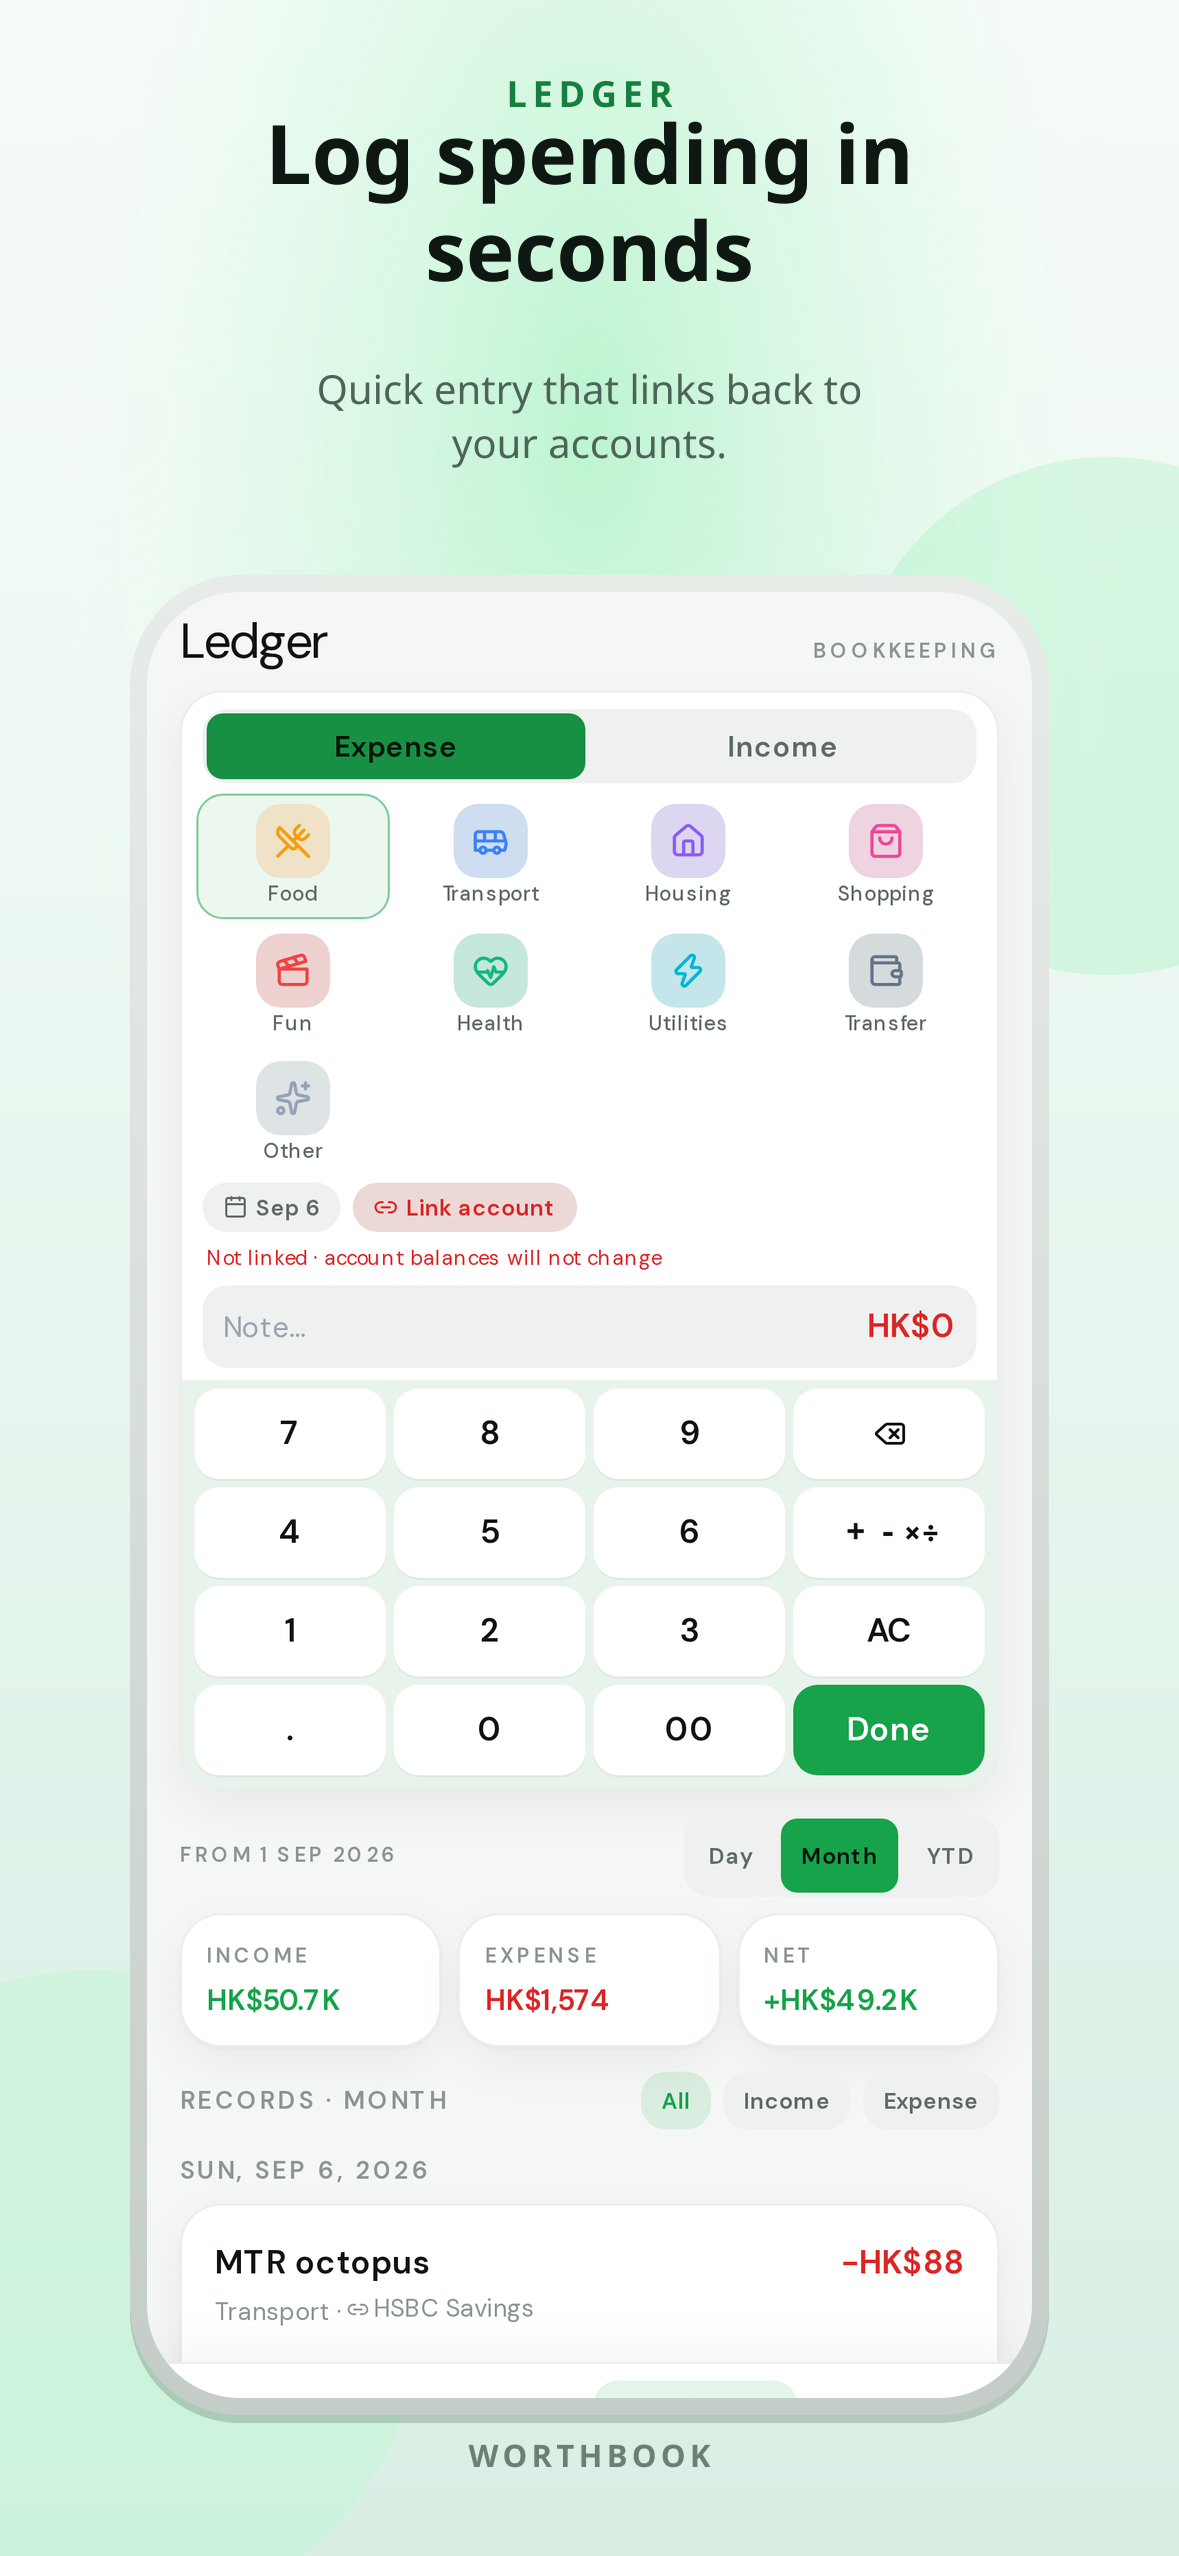
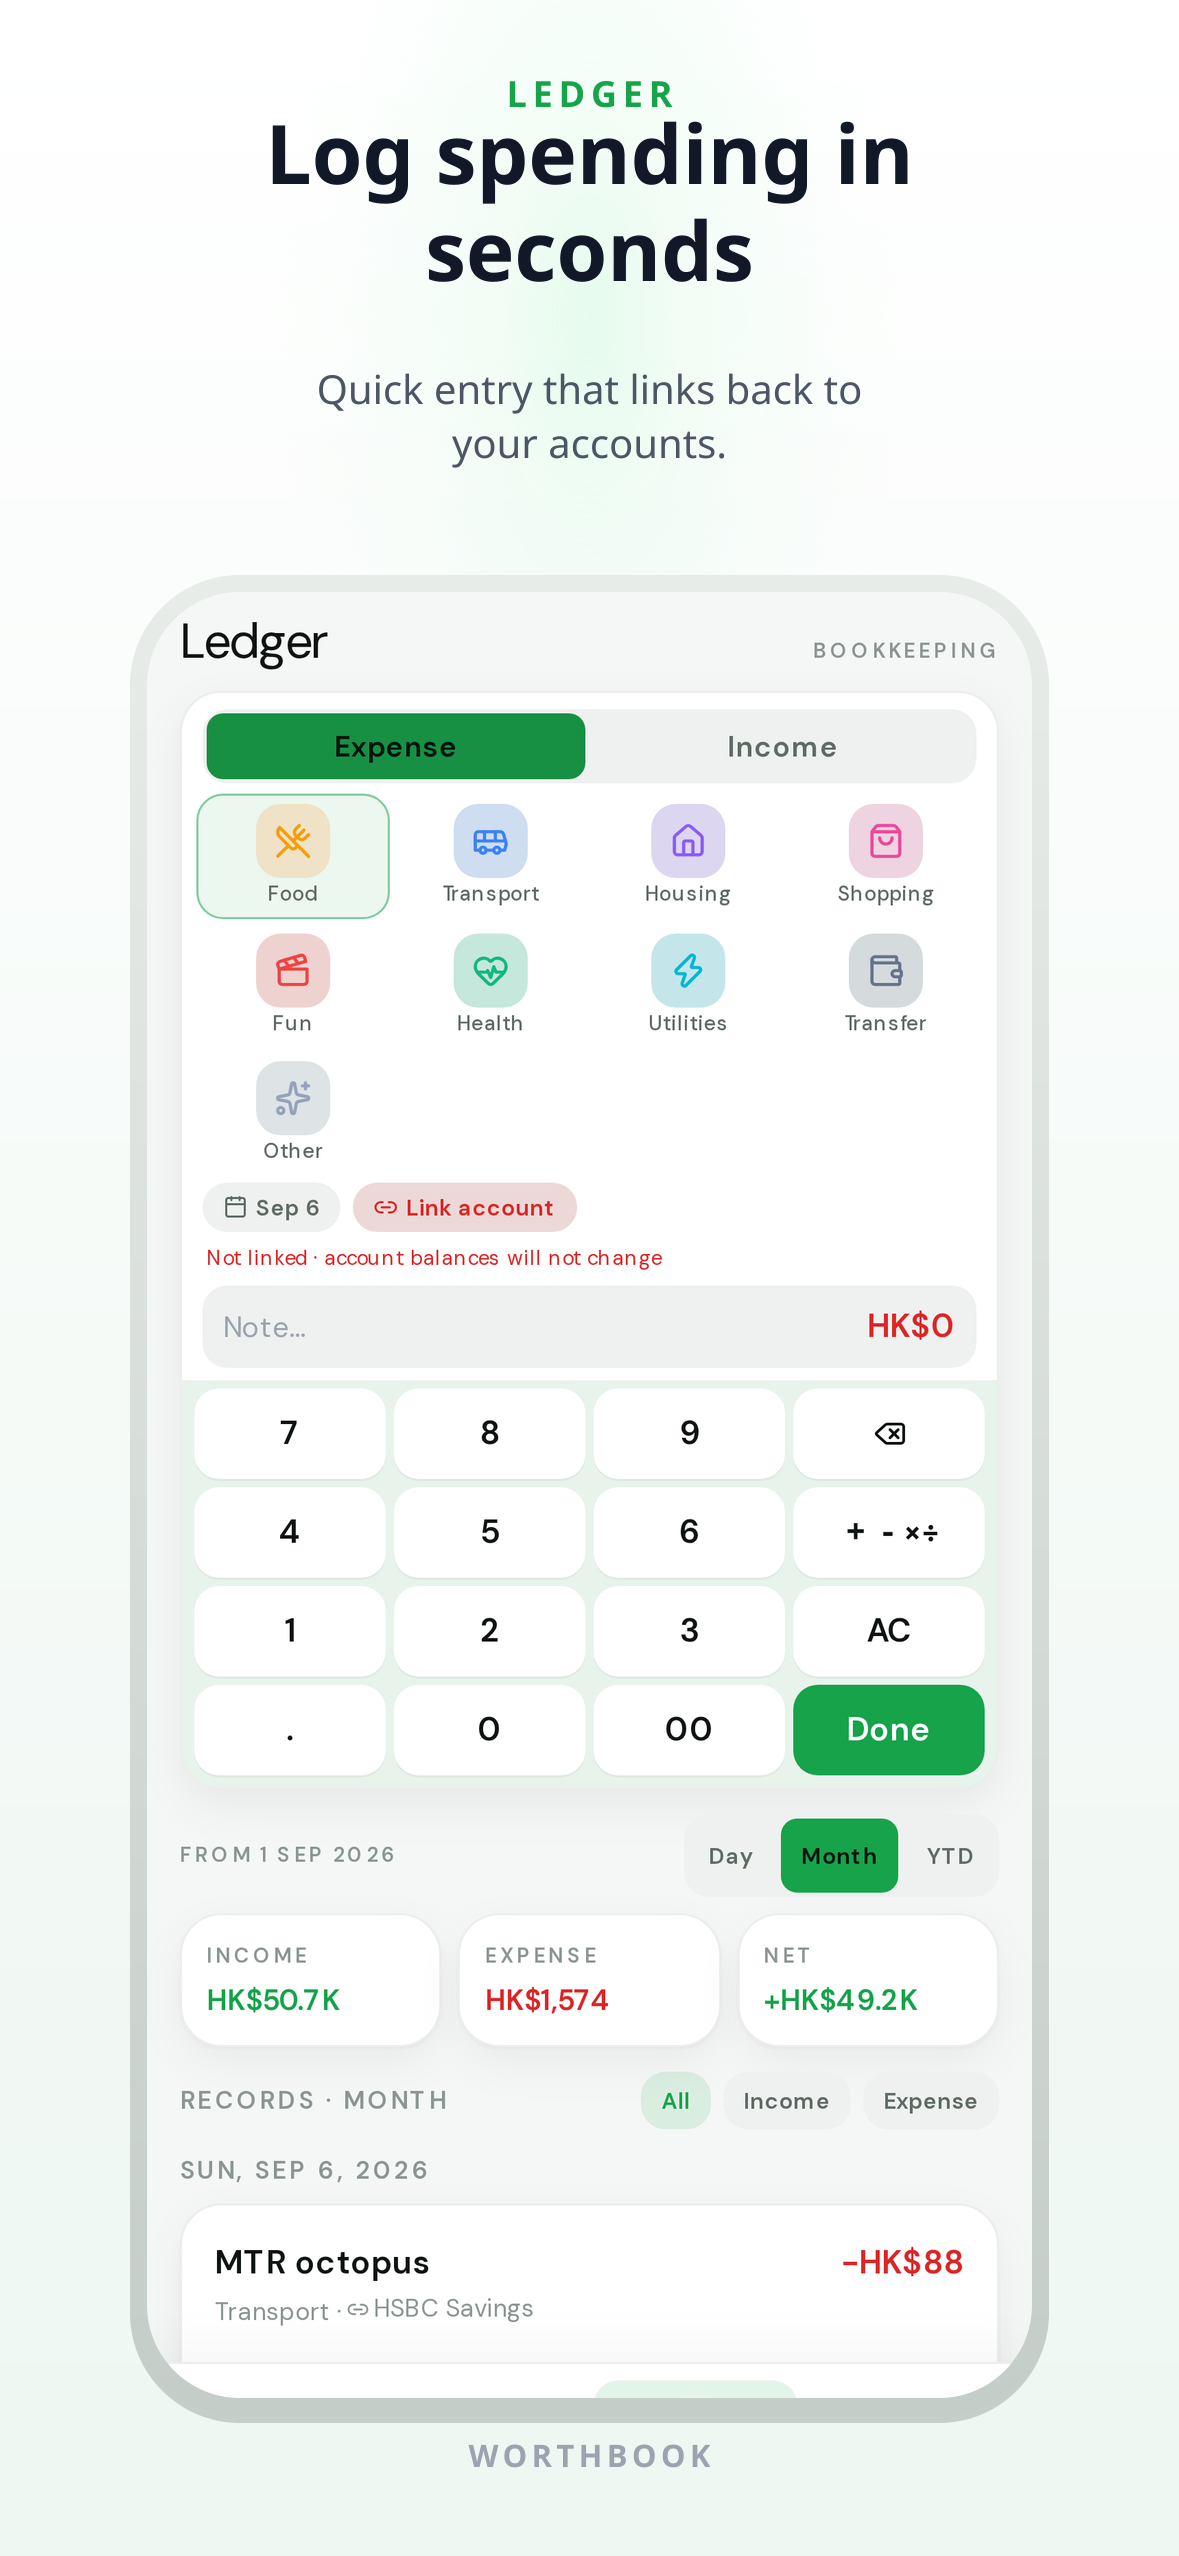
Force light theme for App Store screenshot generation
Demo hook now sets settings.theme=light via the store, marketing
frames use a white backdrop, and captures assert no dark class.

diff --git a/src/components/Providers.tsx b/src/components/Providers.tsx
@@ -137,10 +137,22 @@ export function Providers({ children }: { children: React.ReactNode }) {
   useEffect(() => {
     if (typeof window === "undefined") return;
     if (!navigator.webdriver) return;
-    const w = window as Window & { __worthLoadDemo?: () => void };
-    w.__worthLoadDemo = () => useWorthStore.getState().loadDemoData();
+    const w = window as Window & {
+      __worthLoadDemo?: () => void;
+      __worthSetTheme?: (theme: "light" | "dark" | "system") => void;
+    };
+    w.__worthLoadDemo = () => {
+      const store = useWorthStore.getState();
+      store.loadDemoData();
+      // App Store screenshot runs always want an unambiguous light UI.
+      store.updateSettings({ theme: "light" });
+    };
+    w.__worthSetTheme = (theme) => {
+      useWorthStore.getState().updateSettings({ theme });
+    };
     return () => {
       delete w.__worthLoadDemo;
+      delete w.__worthSetTheme;
     };
   }, []);
 
